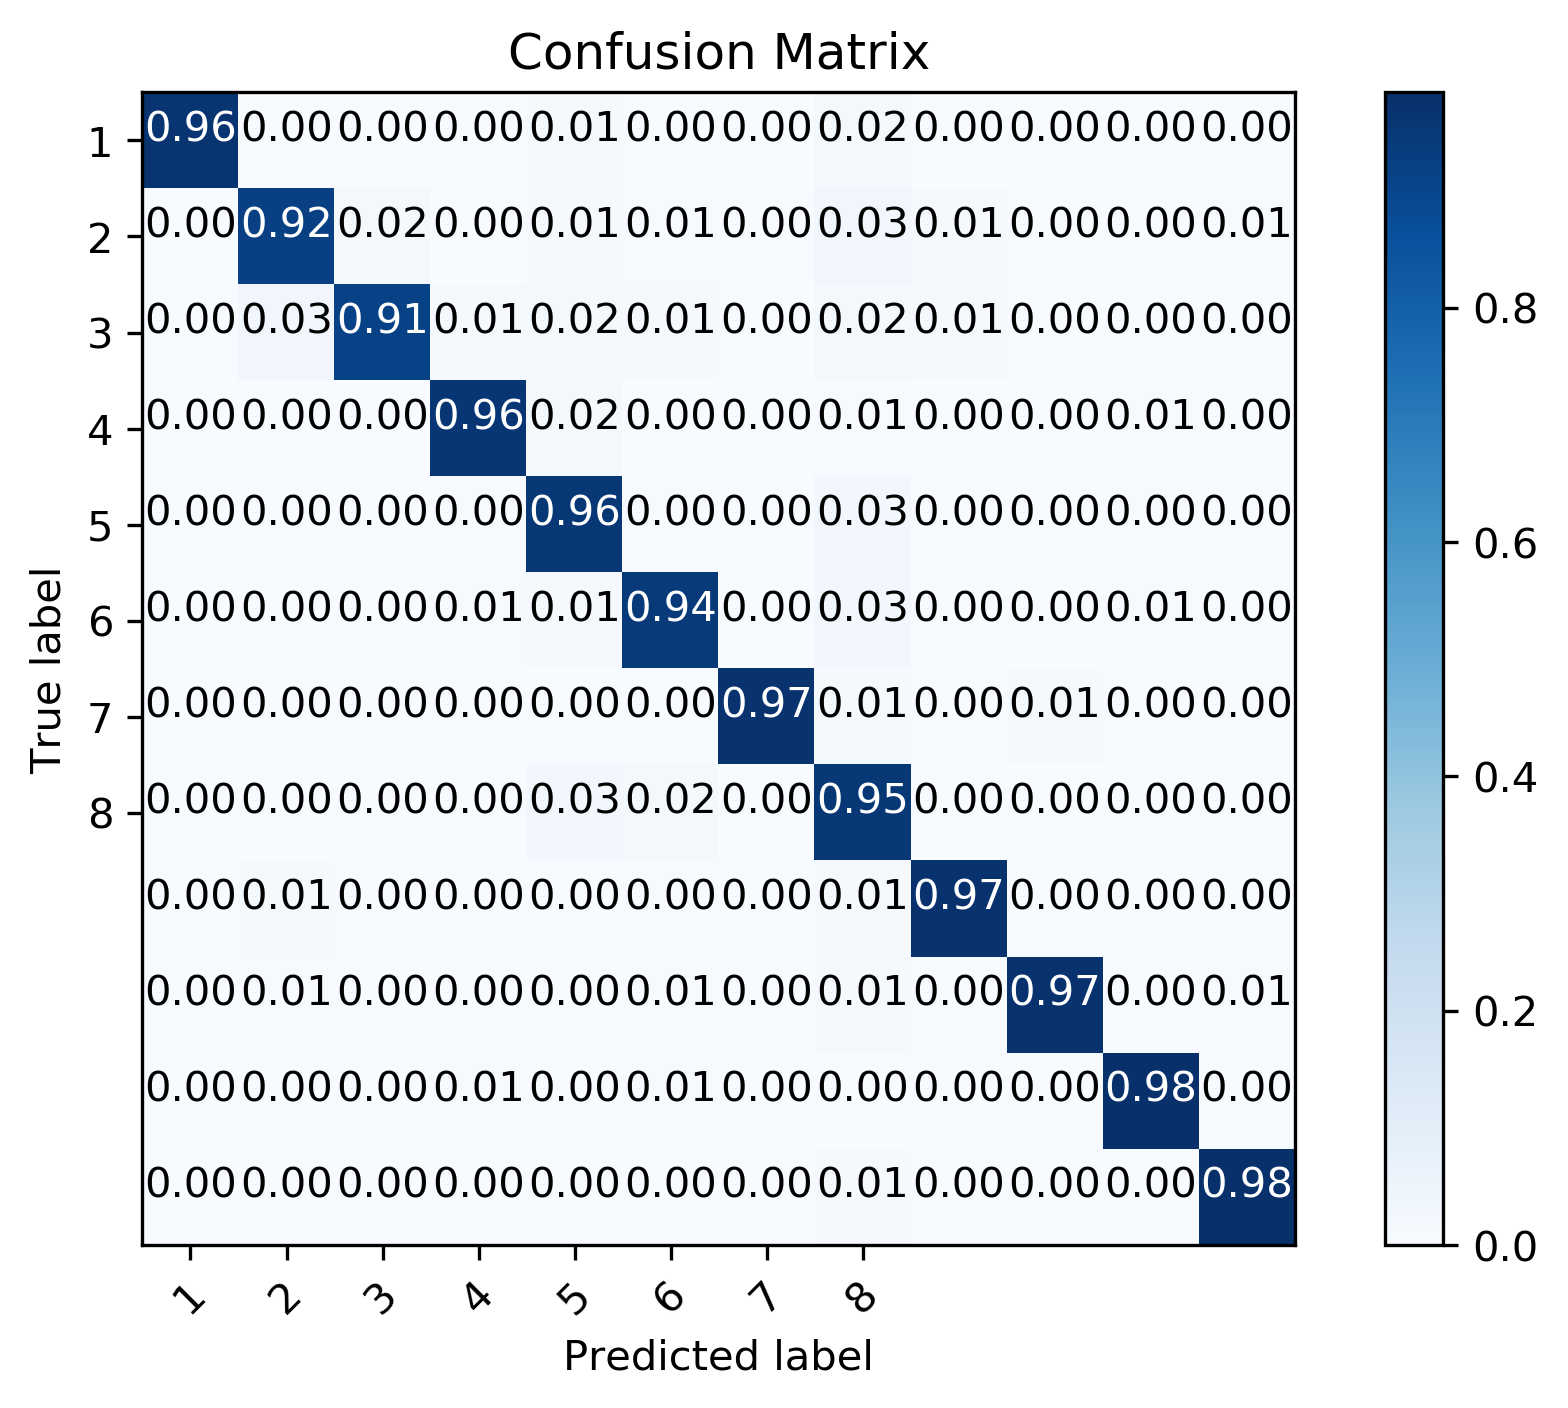
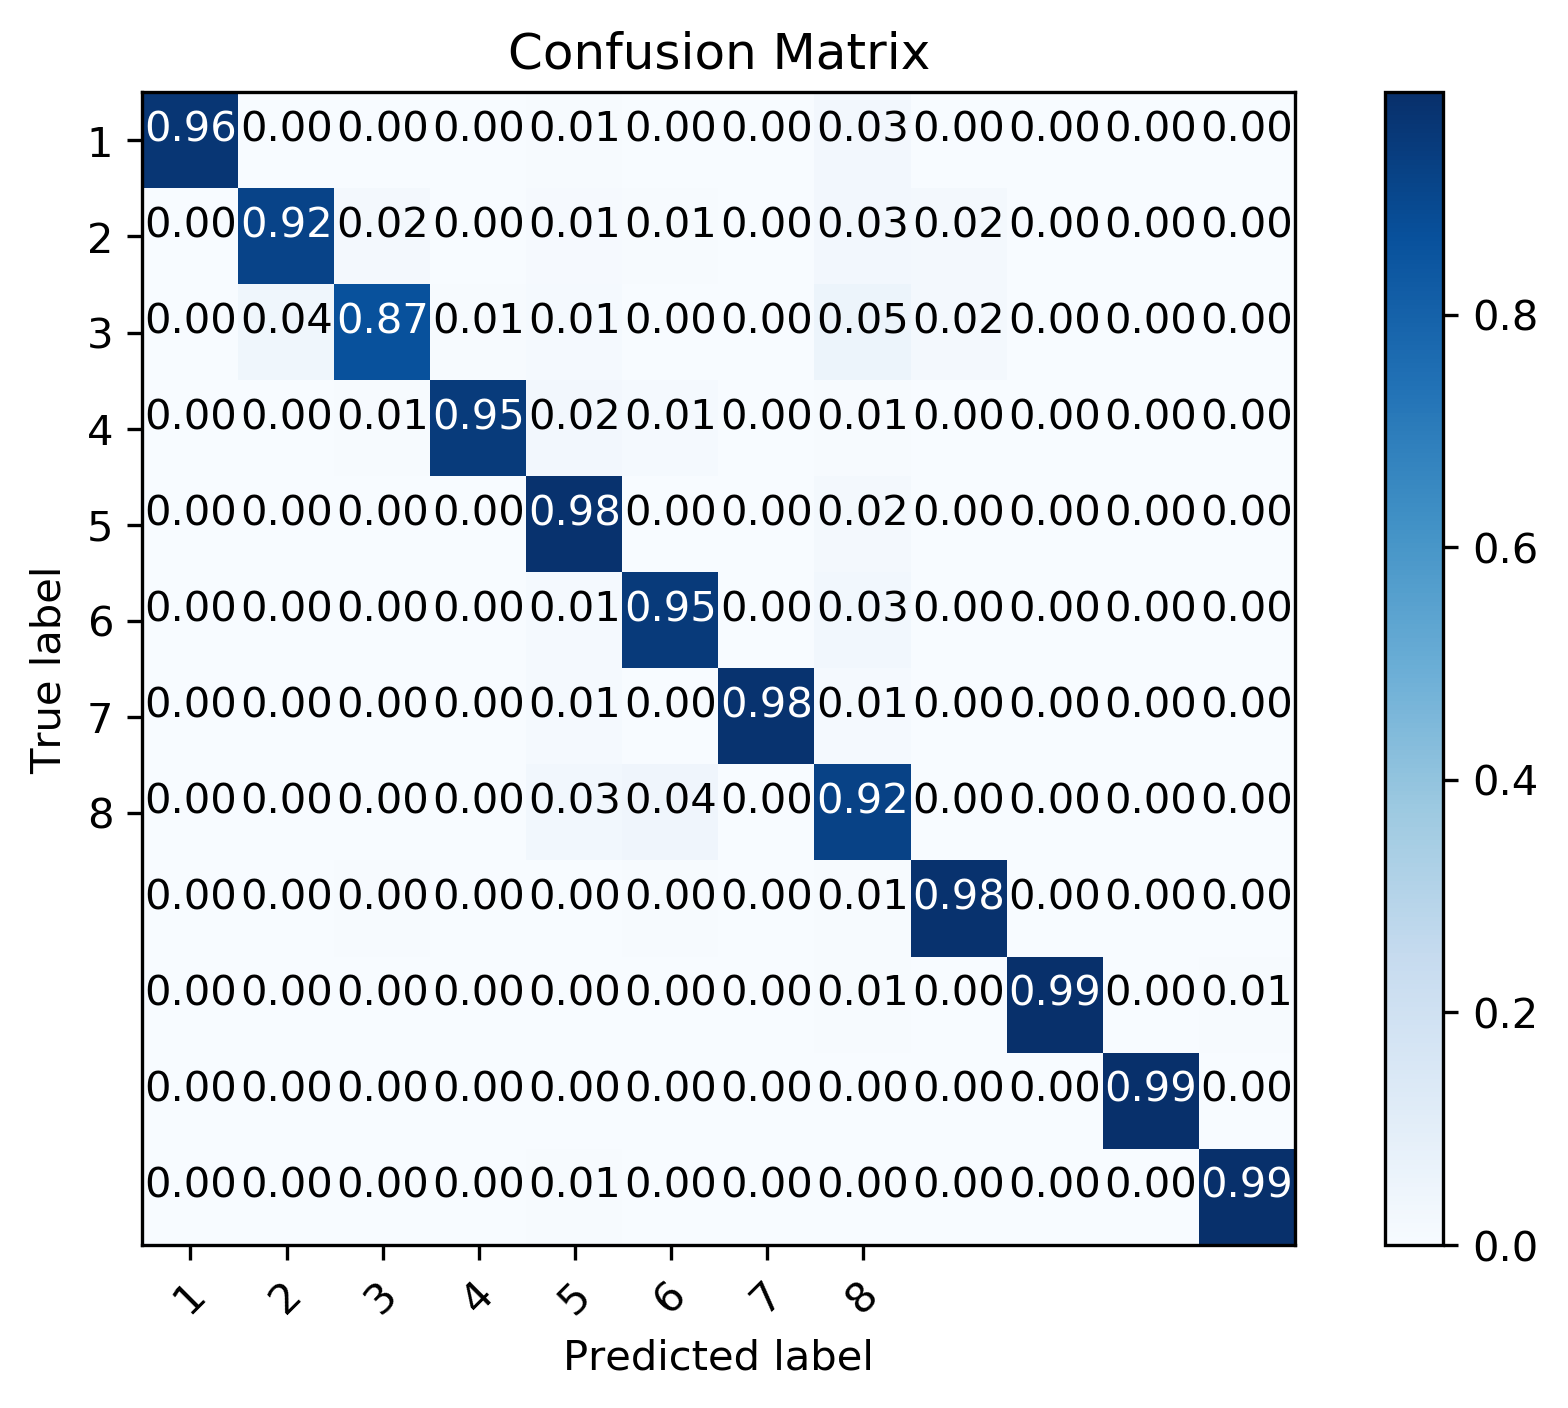
modifications to two level model (still contains some bugs)

diff --git a/models/two_level_wrapper.py b/models/two_level_wrapper.py
@@ -9,6 +9,7 @@ from feature_reduction import feature_reducer
 from models import random_forest
 import pandas as pd
 
+TESTMODE = True
 CREATED_BY = "Jeroen Van Hautte"
 MODEL_NAME = "Two Level Wrapper"
 # This model wraps around the two level estimator, allowing it to be used more like a regular one
@@ -24,10 +25,13 @@ class TwoLevelWrapper(BaseEstimator):
     # Classifiers are set up here, X should contain the unreduced feature set and the activity labels, y should be a 1D array containing only user labels
     def fit(self, X, y):
         train_features = X[:, 0:len(X[0])-1]
-        train_activity_labels = X[:, len(X[0])-1]
-        train_subject_labels = y
-        allUsers = [1, 2, 3, 4, 5, 6, 7, 8]
-        allActivities = ['1', '2', '3', '4', '5', '6', '7', '12', '13', '16', '17', '24']
+        train_activity_labels = X[:, len(X[0])-1].astype(int).reshape(-1)
+        train_subject_labels = y.reshape(-1)
+        allUsers = np.asarray([1, 2, 3, 4, 5, 6, 7, 8])
+        allActivities = np.asarray([1,2,3,4,5,6,7,12,13,16,17,24])
+
+        if (TESTMODE):
+            print "Fitting " + str(len(train_activity_labels)) + " samples"
 
         activityEstimator = random_forest.RF()
 
@@ -42,19 +46,20 @@ class TwoLevelWrapper(BaseEstimator):
         self.reducers.append(currentReducer)
         X_processed.append(currentFeatures)
         activityEstimator.fit(currentFeatures, train_activity_labels)
-
+        counter = 0
         for i in range(12):  # Split this up at a later time for more control
-            print "_____________________________________"
-            print "Activity " + allActivities[i] + ":"
+            print "Activity " + str(allActivities[i]) + ": ",
             currentEstimator = random_forest.RF()
             currentData = train_features[train_activity_labels == allActivities[i]]
             currentLabels = train_subject_labels[train_activity_labels == allActivities[i]].reshape(-1)
-            currentReducer = feature_reducer.get_LDA_reducer(pd.DataFrame(currentData), pd.DataFrame(currentLabels), 20)
-            currentFeatures = currentReducer.transform(train_features[train_activity_labels == allActivities[i]])
+            currentReducer = feature_reducer.get_LDA_reducer(currentData, currentLabels, 20)
+            currentFeatures = currentReducer.transform(currentData)
             self.reducers.append(currentReducer)
 
-            print currentFeatures.shape
-            currentEstimator.fit(currentFeatures, currentLabels.ravel())
+            print currentFeatures.shape,
+            counter += len(currentLabels)
+            print " " + str(counter)
+            currentEstimator.fit(currentFeatures, currentLabels.reshape(-1))
             userEstimators.append(currentEstimator)
             X_processed.append(currentFeatures)
         self.estimator = two_level.TwoLevel(activityEstimator, userEstimators)

diff --git a/models/two_level.py b/models/two_level.py
@@ -20,16 +20,15 @@ class TwoLevel(BaseEstimator):
     # Expects X to be a list containing 13 feature sets
     def predict_proba(self, X):
         allUsers = [1,2,3,4,5,6,7,8]
-        allActivities = ['1','2','3','4','5','6','7','12','13','16','17','24']
+        allActivities = [1,2,3,4,5,6,7,12,13,16,17,24]
         activityProbabilities = self.activityEstimator.predict_proba(X[0]);
         userProbabilities = np.zeros([X[0].shape[0], 8])
-        for i in range(12):
-            realIndex = np.argwhere(self.activityEstimator.estimator.classes_ == allActivities[i])
+        for i in range(len(allActivities)):
+            realIndex = np.argwhere(self.activityEstimator.estimator.classes_ == allActivities[i])[0][0]
             currentPrediction = self.userEstimators[i].predict_proba(X[i+1])
             for j in range(X[i+1].shape[0]):
-                for k in range(len(self.userEstimators[i].estimator.classes_)):
-                    currentUser = self.userEstimators[i].estimator.classes_[k]
-                    userProbabilities[j, np.argwhere(allUsers == currentUser)] += activityProbabilities[j,realIndex]*currentPrediction[j, k]
+                for currentUser in self.userEstimators[i].estimator.classes_:
+                    userProbabilities[j, np.argwhere(currentUser == allUsers)] += activityProbabilities[j,realIndex]*currentPrediction[j, np.argwhere(currentUser == self.userEstimators[i].estimator.classes_)]
         return userProbabilities
 
     def predict(self, X):

diff --git a/main_JVH_two_level_wrapped.py b/main_JVH_two_level_wrapped.py
@@ -7,7 +7,7 @@ import numpy as np
 from utils import pandaman
 import pandas as pd
 
-options = ["JVH", "two_level", "RF-RF", "2"]
+options = ["JVH", "two_level", "RF-RF2"]
 results_location = os.path.join("Results", '/'.join(options) + "/")
 # init trainer
 trainer = trainer.Trainer("")
@@ -16,8 +16,12 @@ trainer = trainer.Trainer("")
 train_features, train_activity_labels, train_subject_labels, test_features = trainer.load_data(
     os.path.join("feature_extraction", '_data_sets/unreduced.pkl'), final=False)
 
+print train_features.shape
+print train_activity_labels.shape
+print train_subject_labels.shape
+
 # Merge features with activity labels (required to use trainer)
-X = pd.DataFrame(np.hstack([train_features.values, train_activity_labels.values.reshape(-1,1)]))
+X = pd.DataFrame(np.hstack([train_features.values, train_activity_labels.values.reshape(-1,1).astype(int)]))
 y = train_subject_labels
 test = pd.DataFrame(np.hstack([test_features.values, np.zeros((test_features.shape[0],1))]))
 

diff --git a/trainer.py b/trainer.py
@@ -81,7 +81,7 @@ class Trainer:
         :return:
         """
         scores = []
-        train_labels = np.array(train_labels.values).ravel()
+        train_labels = np.array(train_labels.values).reshape(-1)
         train_features = np.array(train_features.values)
         skf = list(StratifiedKFold(n_splits=4)
                    .split(train_features, train_labels))
@@ -94,6 +94,7 @@ class Trainer:
             estimator.fit(X_train_rebalanced, y_train_rebalanced)
 
             score = scorer(estimator, X_test, y_test)
+            print "Intermediate score: " + str(score)
             scores.append(score)
         return np.array(scores)
 
